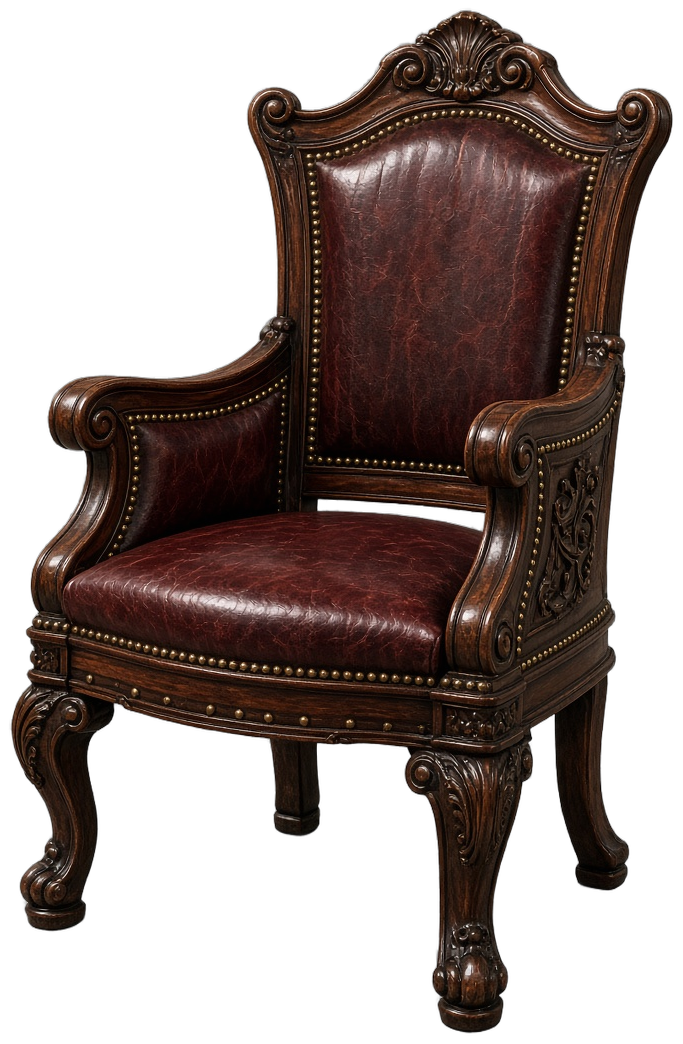
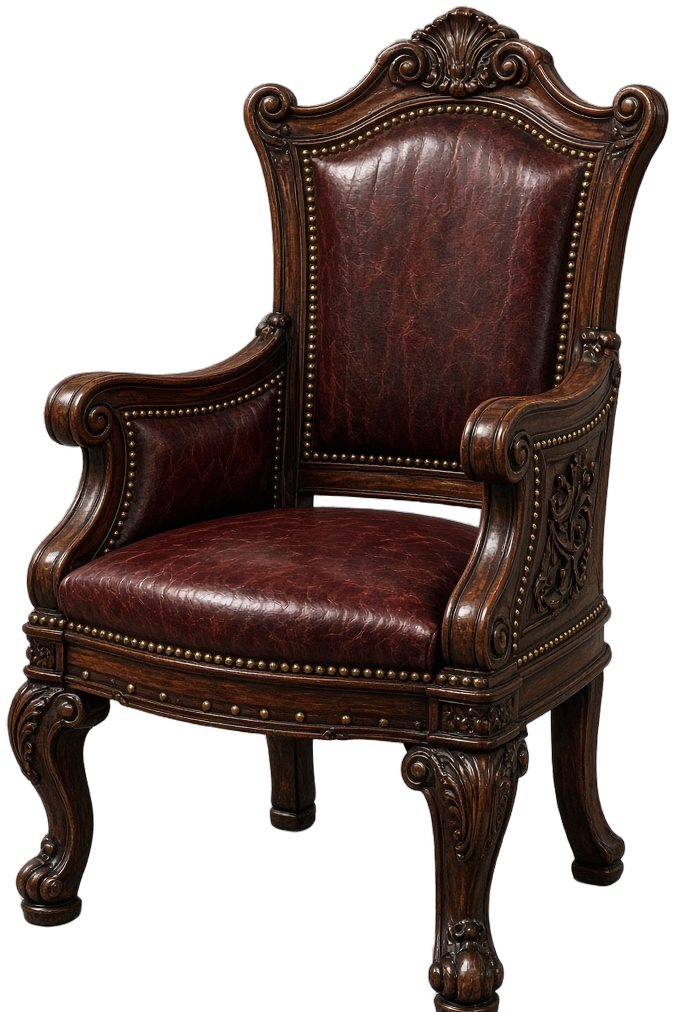
Plant a larger captain's chair on the stern floor
Composite the chair into the stern wall at the floor seam,
centered on the middle window, so the feet sit on the boards.

diff --git a/pirates-cabin.html b/pirates-cabin.html
@@ -10,7 +10,7 @@
       href="https://fonts.googleapis.com/css2?family=Figtree:wght@400;500;600&family=Libre+Baskerville:ital,wght@0,400;0,700;1,400&family=Pirata+One&display=swap"
       rel="stylesheet"
     />
-    <link rel="stylesheet" href="pirate-treasures.css?v=61" />
+    <link rel="stylesheet" href="pirate-treasures.css?v=73" />
   </head>
   <body class="pirate-page cabin-page">
     <header class="cabin-hud">
@@ -30,8 +30,8 @@
         <div class="cabin-world" id="cabin-world">
           <div class="cabin-face cabin-face-stern">
             <img
-              src="images/cabin-stern-wall.jpg?v=4"
-              alt="Stern wall with three sunrise ocean windows"
+              src="images/cabin-stern-wall-v5.jpg?v=2"
+              alt="Stern wall with three sunrise ocean windows and captain’s chair"
               draggable="false"
             />
           </div>
@@ -61,13 +61,6 @@
           </div>
           <div class="cabin-face cabin-face-floor" aria-hidden="true"></div>
           <div class="cabin-face cabin-face-ceiling" aria-hidden="true"></div>
-          <div class="cabin-prop cabin-prop-chair" aria-hidden="true">
-            <img
-              src="images/cabin-captain-chair.png?v=1"
-              alt=""
-              draggable="false"
-            />
-          </div>
         </div>
       </div>
     </main>

diff --git a/pirate-treasures.css b/pirate-treasures.css
@@ -230,32 +230,6 @@ body.pirate-page {
     );
 }
 
-/* Furniture props live in room space (siblings of the wall faces) */
-.cabin-prop {
-  position: absolute;
-  left: 0;
-  top: 0;
-  transform-style: preserve-3d;
-  pointer-events: none;
-}
-
-.cabin-prop img {
-  display: block;
-  width: 100%;
-  height: auto;
-  user-select: none;
-  -webkit-user-drag: none;
-  pointer-events: none;
-  filter: drop-shadow(0 22px 16px rgba(0, 0, 0, 0.55));
-}
-
-/* Against the stern, centered on the middle window, feet on the floor */
-.cabin-prop-chair {
-  width: calc(var(--cabin-w) * 0.155);
-  transform: translate(-50%, -100%)
-    translate3d(0, var(--cabin-half-h), calc(var(--cabin-half-d) * -0.9));
-}
-
 .cabin-face-ceiling {
   transform: rotateX(-90deg) translateZ(calc(var(--cabin-half-h) * -1));
   background:
